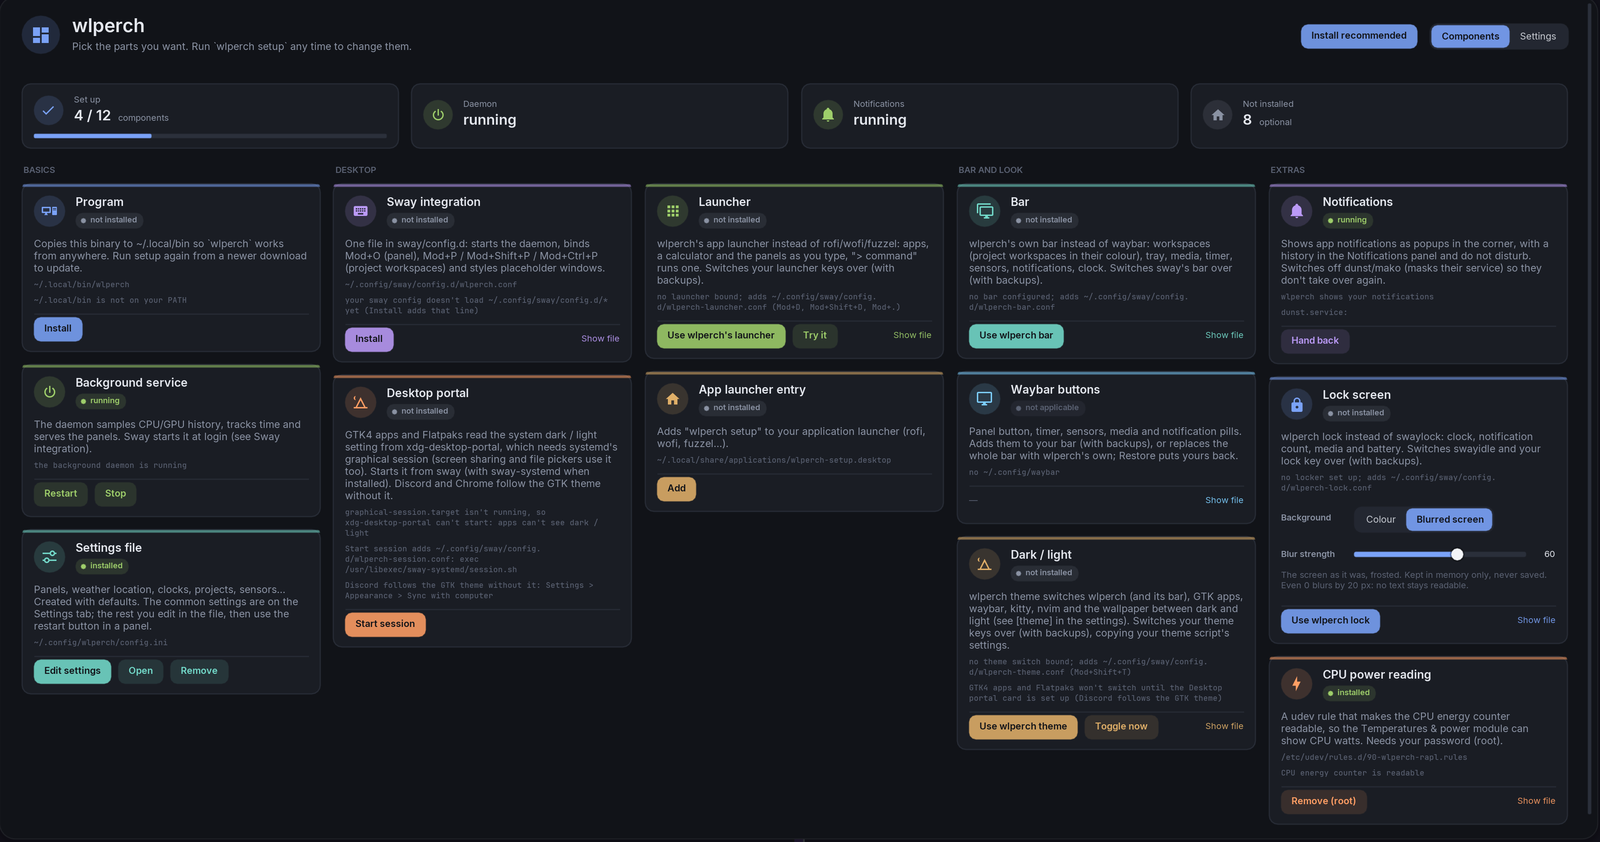
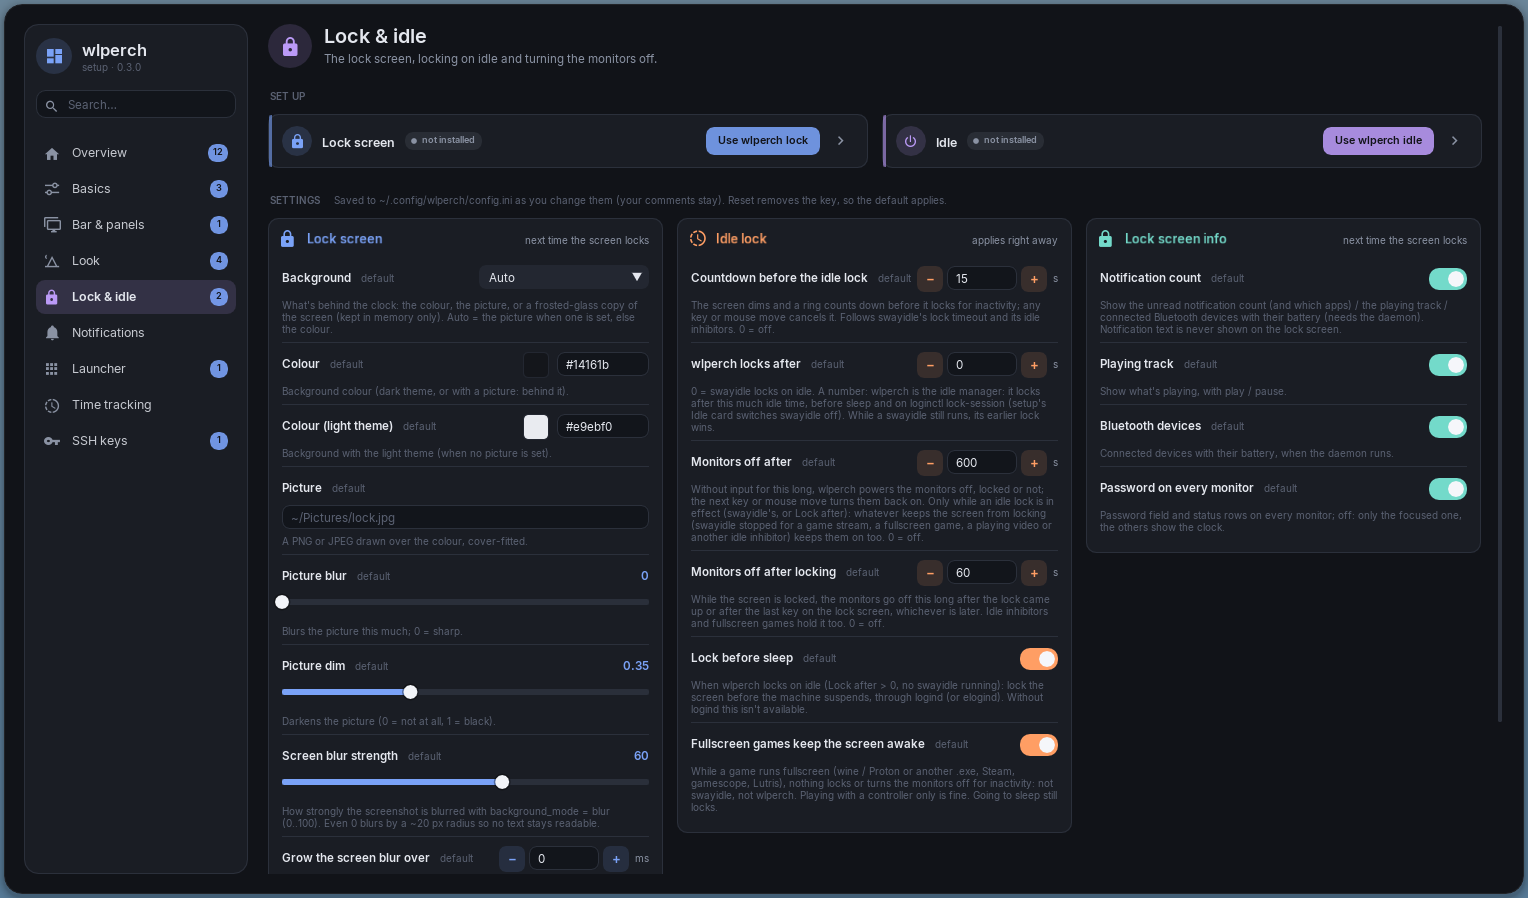
README: the setup window's pages, and a new screenshot
Claude-Session: https://claude.ai/code/session_019ZWtUAVyqX6WQJFt6M4rVm

diff --git a/README.md b/README.md
@@ -802,7 +802,7 @@ running, the CLI switches the desktop itself and prints what it changed.
   `kvantummanager`), `vscode_theme` (`workbench.colorTheme` in the settings of
   Code, Code - OSS or VSCodium, when they set one) and `command` (anything
   else, through `sh -c`).
-- **Wallpaper sets**: the setup window's **Wallpapers** tab
+- **Wallpaper sets**: the wallpapers on the setup window's **Look** page
   (`wlperch setup wallpapers`) shows the jpg and png files of a folder
   (`[wallpapers] directory`) as thumbnails, each with a **Dark** and a
   **Light** switch; click one to show it now. A switch to dark or light then
@@ -813,7 +813,7 @@ running, the CLI switches the desktop itself and prints what it changed.
   Thumbnails are cached in `~/.cache/wlperch/wallpaper-thumbs`.
 - **wlperch's wallpaper** (setup's **Wallpaper** card, see below) draws the
   wallpaper instead of swaybg: every change crossfades, and with
-  `[wallpapers] rotate_minutes` (also on the Wallpapers tab) it moves on to
+  `[wallpapers] rotate_minutes` (setup's Look page) it moves on to
   another picture of the current mode's set that often.
 - **The mode** is kept in `~/.local/share/wlperch/theme`. Before the first
   switch, the gsettings `color-scheme` decides.
@@ -859,11 +859,11 @@ layer-shell surface per monitor on the background layer, drawn in shared
 memory, no GPU), so the daemon's restarts never touch the wallpaper and the
 last picture is there at login before anything else runs.
 
-- **Crossfades:** every change (a dark / light switch, a click on the
-  Wallpapers tab, Shuffle, the rotation, `wlperch wallpaper set`) blends from
+- **Crossfades:** every change (a dark / light switch, a click on a
+  wallpaper in setup, Shuffle, the rotation, `wlperch wallpaper set`) blends from
   the old picture into the new one over 0.8 s, on every monitor at once.
-- **Rotation:** `[wallpapers] rotate_minutes` (Settings → Wallpapers, or the
-  Wallpapers tab): every so many minutes the next picture of the current
+- **Rotation:** `[wallpapers] rotate_minutes` (setup's Look page,
+  Wallpapers): every so many minutes the next picture of the current
   mode's set, never the same one twice in a row; a picture you pick, or a
   theme switch, starts the count again. 0 = off.
 - **Sharp at any scale:** each monitor gets the picture scaled ("fill":
@@ -927,7 +927,7 @@ a while instead of for the whole session.
   itself removes them), when the screen locks with `wlperch lock`
   (`forget_on_lock`, default on; the lock screen does it, so it works without
   the daemon), and after `forget_on_idle` minutes without input (off by
-  default). All in the Settings tab under **SSH keys**.
+  default). All on the **SSH keys** page of the setup window.
 - **Security:** passphrases only ever exist in the askpass process, which
   hands them to `ssh-add` over its pipe: never in the daemon, IPC, logs or
   config. Its buffer is locked in memory where allowed, wiped after use, and
@@ -1053,21 +1053,35 @@ it:
 ```sh
 ./wlperch          # not installed yet and nothing running -> opens setup
 wlperch setup      # later: the same window (or the ⚙ button in a panel)
-wlperch setup settings  # straight to the Settings tab
-wlperch setup components  # straight to the Components tab
-wlperch setup wallpapers  # straight to the Wallpapers tab
+wlperch setup lock      # straight to a page: overview, basics, bar, look,
+                        # lock, notifications, launcher, time, ssh
+wlperch setup wallpapers  # Look, scrolled to the wallpapers
 ```
 
-Once every component is set up, the window opens on the Settings tab.
+![The setup window: a sidebar of pages, here Lock & idle with its two components and its settings](docs/screenshots/setup.png)
 
-![The setup window's Components tab: status cards and one card per component with its actions](docs/screenshots/setup.png)
+The setup window has a page per part of the desktop, in a sidebar: **Overview**,
+**Basics** (program, background service, settings file, sway, launcher entry,
+updates), **Bar & panels**, **Look** (dark / light, Neovim, desktop portal,
+wallpaper and the wallpaper sets), **Lock & idle**, **Notifications**,
+**Launcher**, **Time tracking** and **SSH keys**. Each page has the components
+to set up at the top and their settings below, so a feature is installed and
+configured in one place. A badge on a page counts what isn't set up there
+(orange when something needs attention). The Overview shows how much is set
+up, a to-do list that opens the right page (the card then pulses), and
+updates. The search box at the top of the sidebar (Ctrl+F) finds settings and
+components on every page by name and help text; Escape clears it. The old
+names still work: `wlperch setup components` opens the Overview, `settings`
+Basics.
 
-The setup window lists each component with its status (installed, update
-available, not installed, set up elsewhere) and actions.
+Each component is one line with its status (installed, update available, not
+installed, set up elsewhere) and its actions; the arrow on the right (or a
+click on its name) shows what it does, the files it writes and, for sway, the
+key editor.
 
 **Your own keys.** wlperch's sway file binds a few keys (`$mod+o` for the
-panel, `$mod+p` for project workspaces, …). Open "Key bindings" on the Sway
-integration card to switch each one on or off and give it another key before
+panel, `$mod+p` for project workspaces, …). Open the Sway integration card
+(Basics) and its "Key bindings" to switch each one on or off and give it another key before
 anything is installed. setup asks `sway -C` whether your sway config already
 uses a key; clashes turn red, and Install changes nothing until they're
 resolved:
@@ -1098,15 +1112,14 @@ the `@import` in your waybar config (with `*.before-wlperch` backups). A removed
 settings file is kept as `config.ini.before-wlperch`. Destructive actions ask
 for a second click.
 
-The **Settings** tab (top right, or "Edit settings" on the Settings file card)
-edits the config keys you're likely to change without opening the file: the
+The settings on each page edit the config keys you're likely to change without opening the file: the
 panel (close on click outside, position, width, GPU release), clocks and weather
 (24-hour clock, world clocks, location, units, night light command), the bar
 (position, height, clock format, tray icon size, outputs, sensor room), the
 memory thresholds, the lock screen (background, colours, picture, blur, what it
 shows), the time tracker's break timeout, GitHub, the launcher's terminal and
 the per-mode dark / light targets (wallpaper, GTK / icon / kitty / nvim / VS Code
-/ Kvantum themes) and the setup window's own dim. Each has its help line and a filter box finds them. Changes
+/ Kvantum themes) and the setup window's own dim. Each has its help line and the search box finds them. Changes
 are written into `config.ini` as you make them (typing and dragging are
 debounced), one key at a time with your comments and layout kept; "reset"
 removes the key so the default applies again. They take effect by themselves:
@@ -1124,7 +1137,7 @@ when the window is tiled, fullscreen, on a hidden workspace or loses focus to
 another window. A click on the dim closes setup, like Escape; the window and
 the resize strip around its edges work as before. Being part of the setup
 process, the dim also disappears if that process crashes. `[setup]
-dim_background = false` (or the Settings tab) turns it off, `dim_strength`
+dim_background = false` (or Basics, Setup window) turns it off, `dim_strength`
 sets how dark it is; both apply to an open window right away.
 
 "Replace whole bar" is the aggressive option: your config and `style.css` are
@@ -1495,7 +1508,8 @@ src/bar_sway.odin        the bar's sway subscription: workspaces (and project gr
 src/bar_tray.odin        StatusNotifierWatcher/Host and dbusmenu
 src/setup_bar.odin       setup component: switch sway's bar from waybar/swaybar to wlperch bar and back
 src/config_edit.odin     config.ini edits that keep comments; the settings table, validated with config.odin's limits
-src/setup_settings.odin  setup's Settings tab: controls, debounced writes, restarting the daemon to apply
+src/setup_pages.odin     setup's pages: which components and settings groups each holds, `wlperch setup <page>`
+src/setup_settings.odin  setup's settings cards: controls, debounced writes, restarting the daemon to apply
 src/setup_dim.odin       setup's dim around its window: layer surfaces with a rounded hole that follow sway's tree
 src/ssh.odin             SSH keys: ~/.ssh scan, ssh-add actions, the expiry records, the daemon's state, `wlperch ssh`
 src/ui_ssh.odin          the SSH keys card and its quick settings tile
